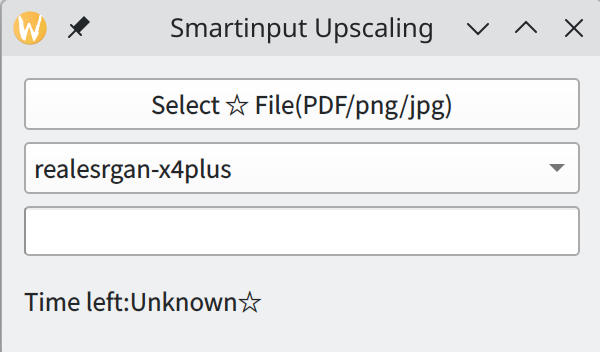
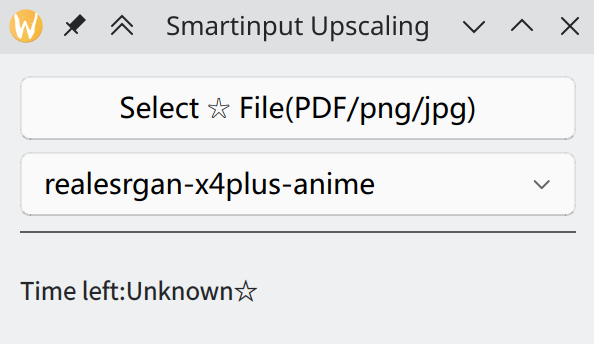
Refactor interface using PyQt-Fluent-Widgets and add TODO items

diff --git a/README_en.md b/README_en.md
@@ -5,9 +5,11 @@ Initially, it was because the school's ancestral ppt was too blurry, and I wante
 
 The project is based on [Real-ESRGAN](https://github.com/xinntao/Real-ESRGAN) for convenient and fast super-resolution processing of various images/videos.
 
+GUI used PyQt-Fluent-Widgets.
+
 # TODO List
 
--   Refactor the interface using PyQt-Fluent-Widgets.
+-   (Almost) lossless compression after image enlargement.
 -   Add video support.
 -   Implement batch processing for images.
 

diff --git a/README.md b/README.md
@@ -6,9 +6,11 @@
 
 项目基于[Real-ESRGAN](https://github.com/xinntao/Real-ESRGAN)进行快速方便对各种图像/视频进行超分辨率处理。
 
+项目使用了PyQt-Fluent-Widgets进行界面美化。
+
 # TODO List
 
--   使用PyQt-Fluent-Widgets重构界面
+-   在图片放大之后进行(几乎)无损压缩
 -   添加视频支持
 -   图片批量处理
 
